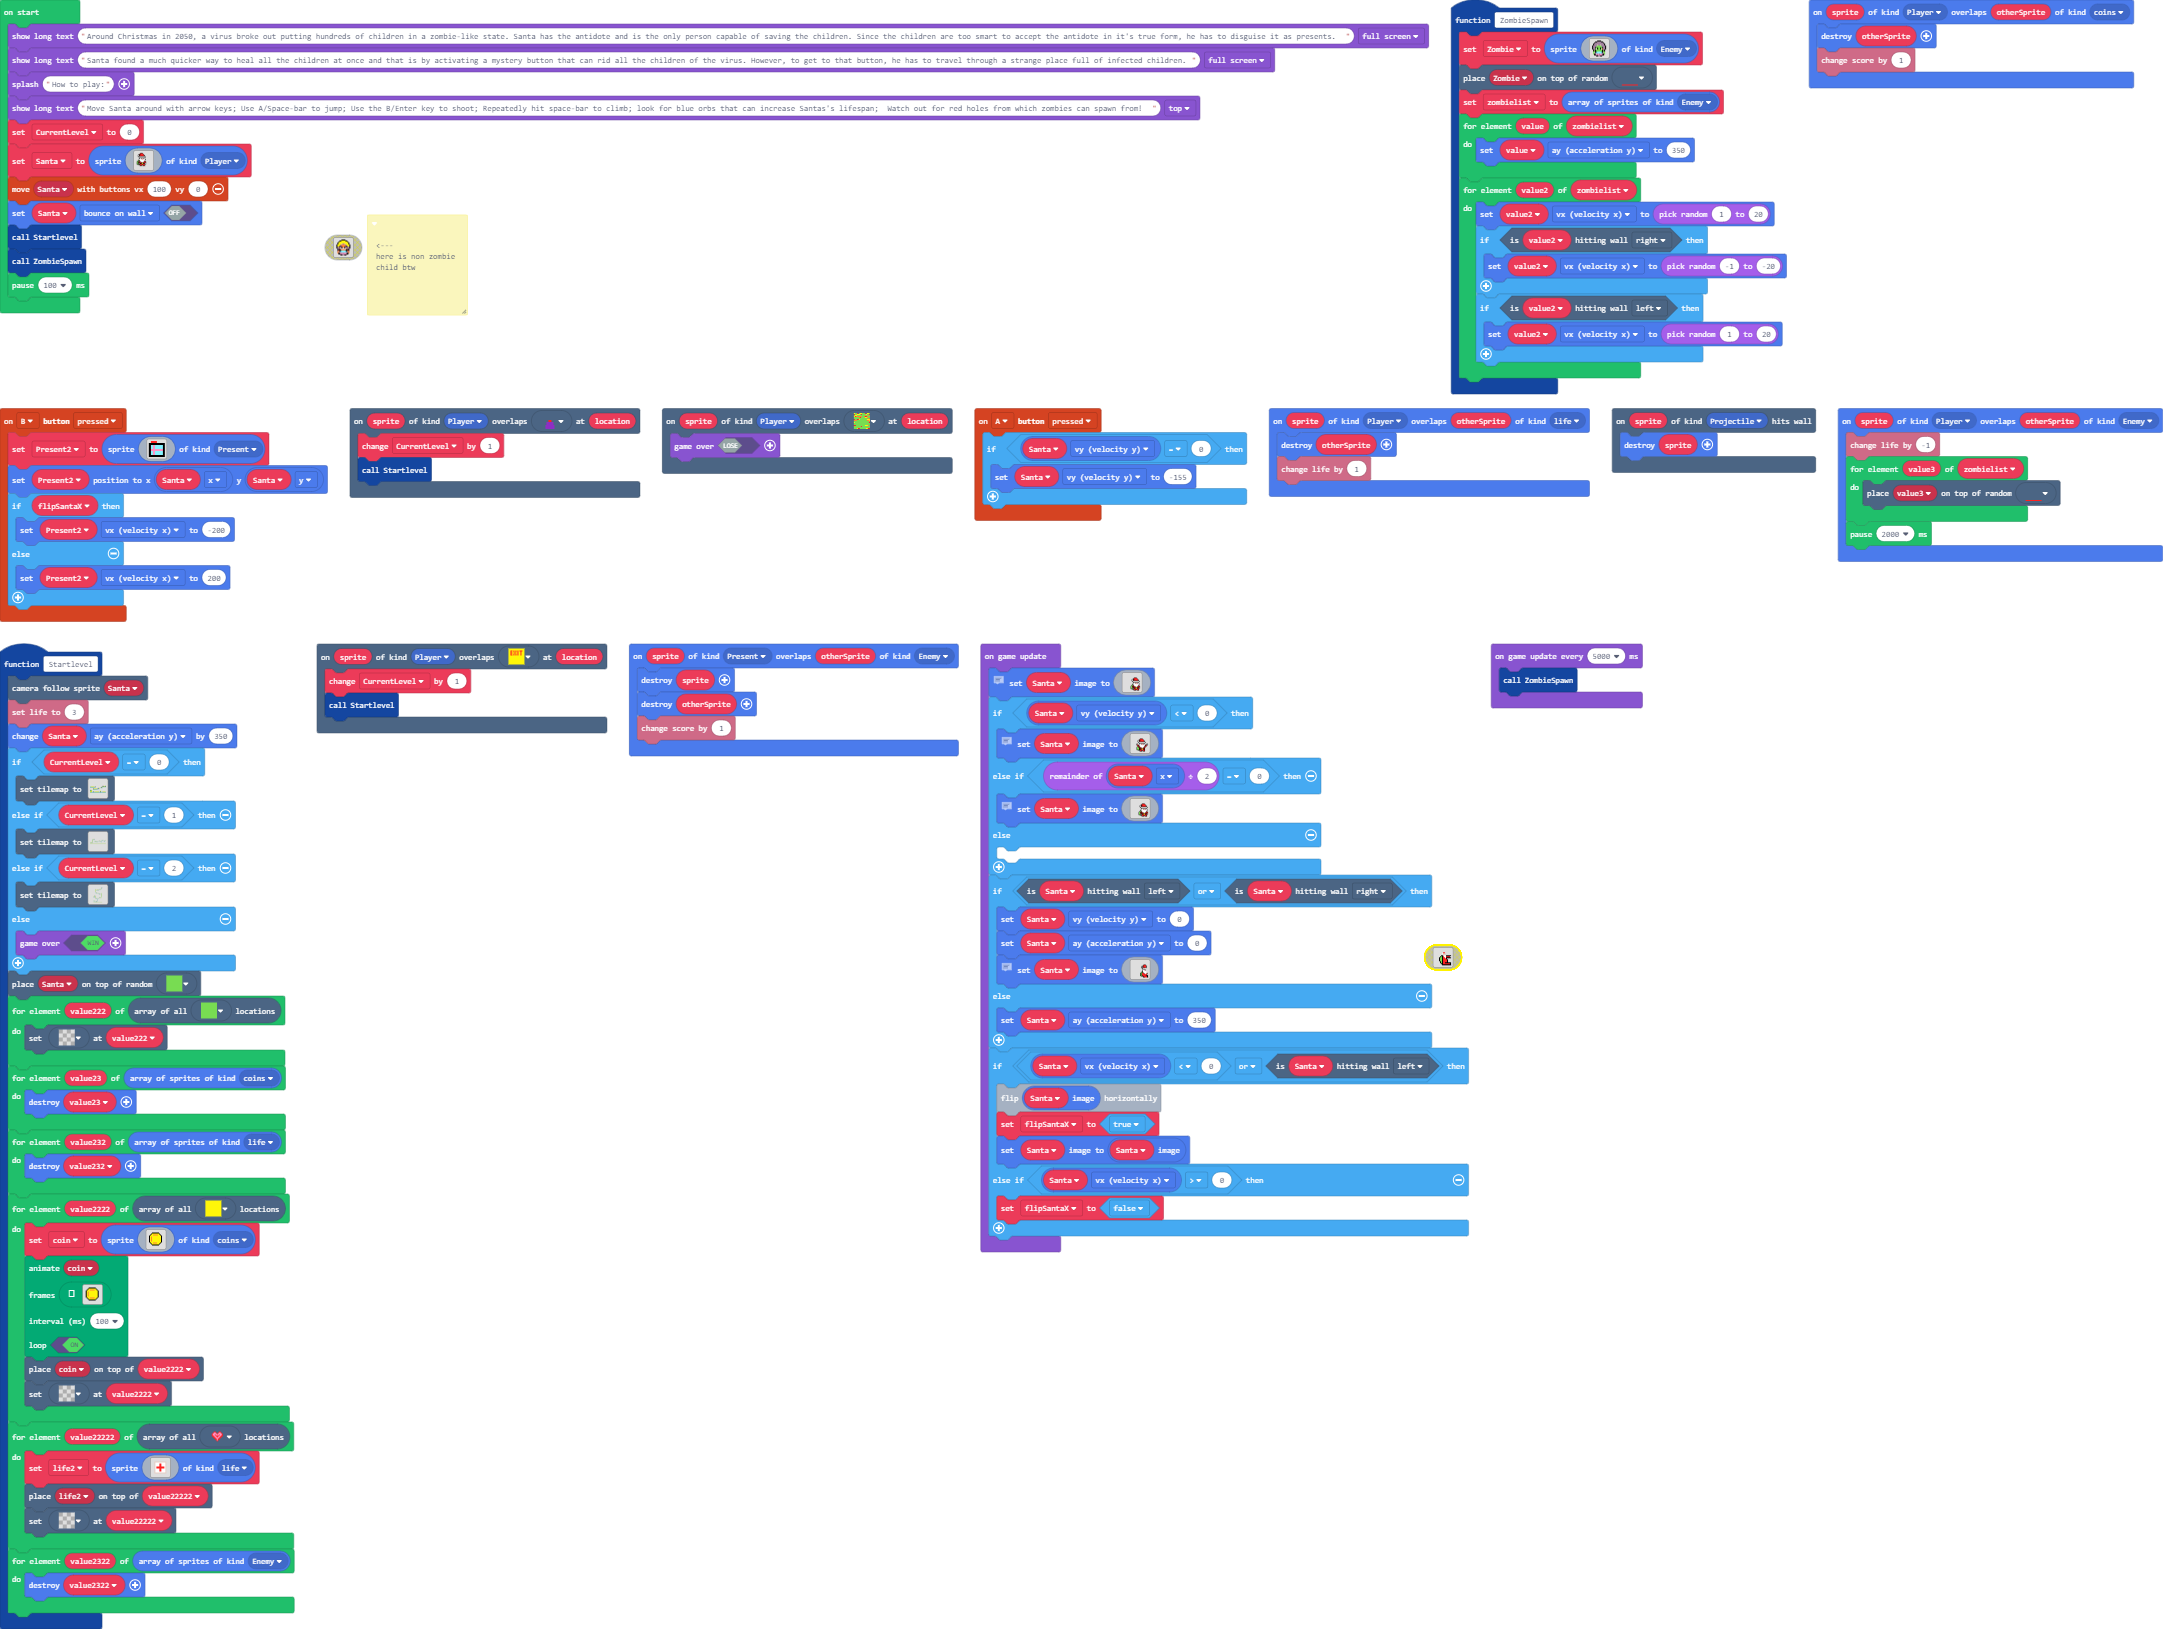
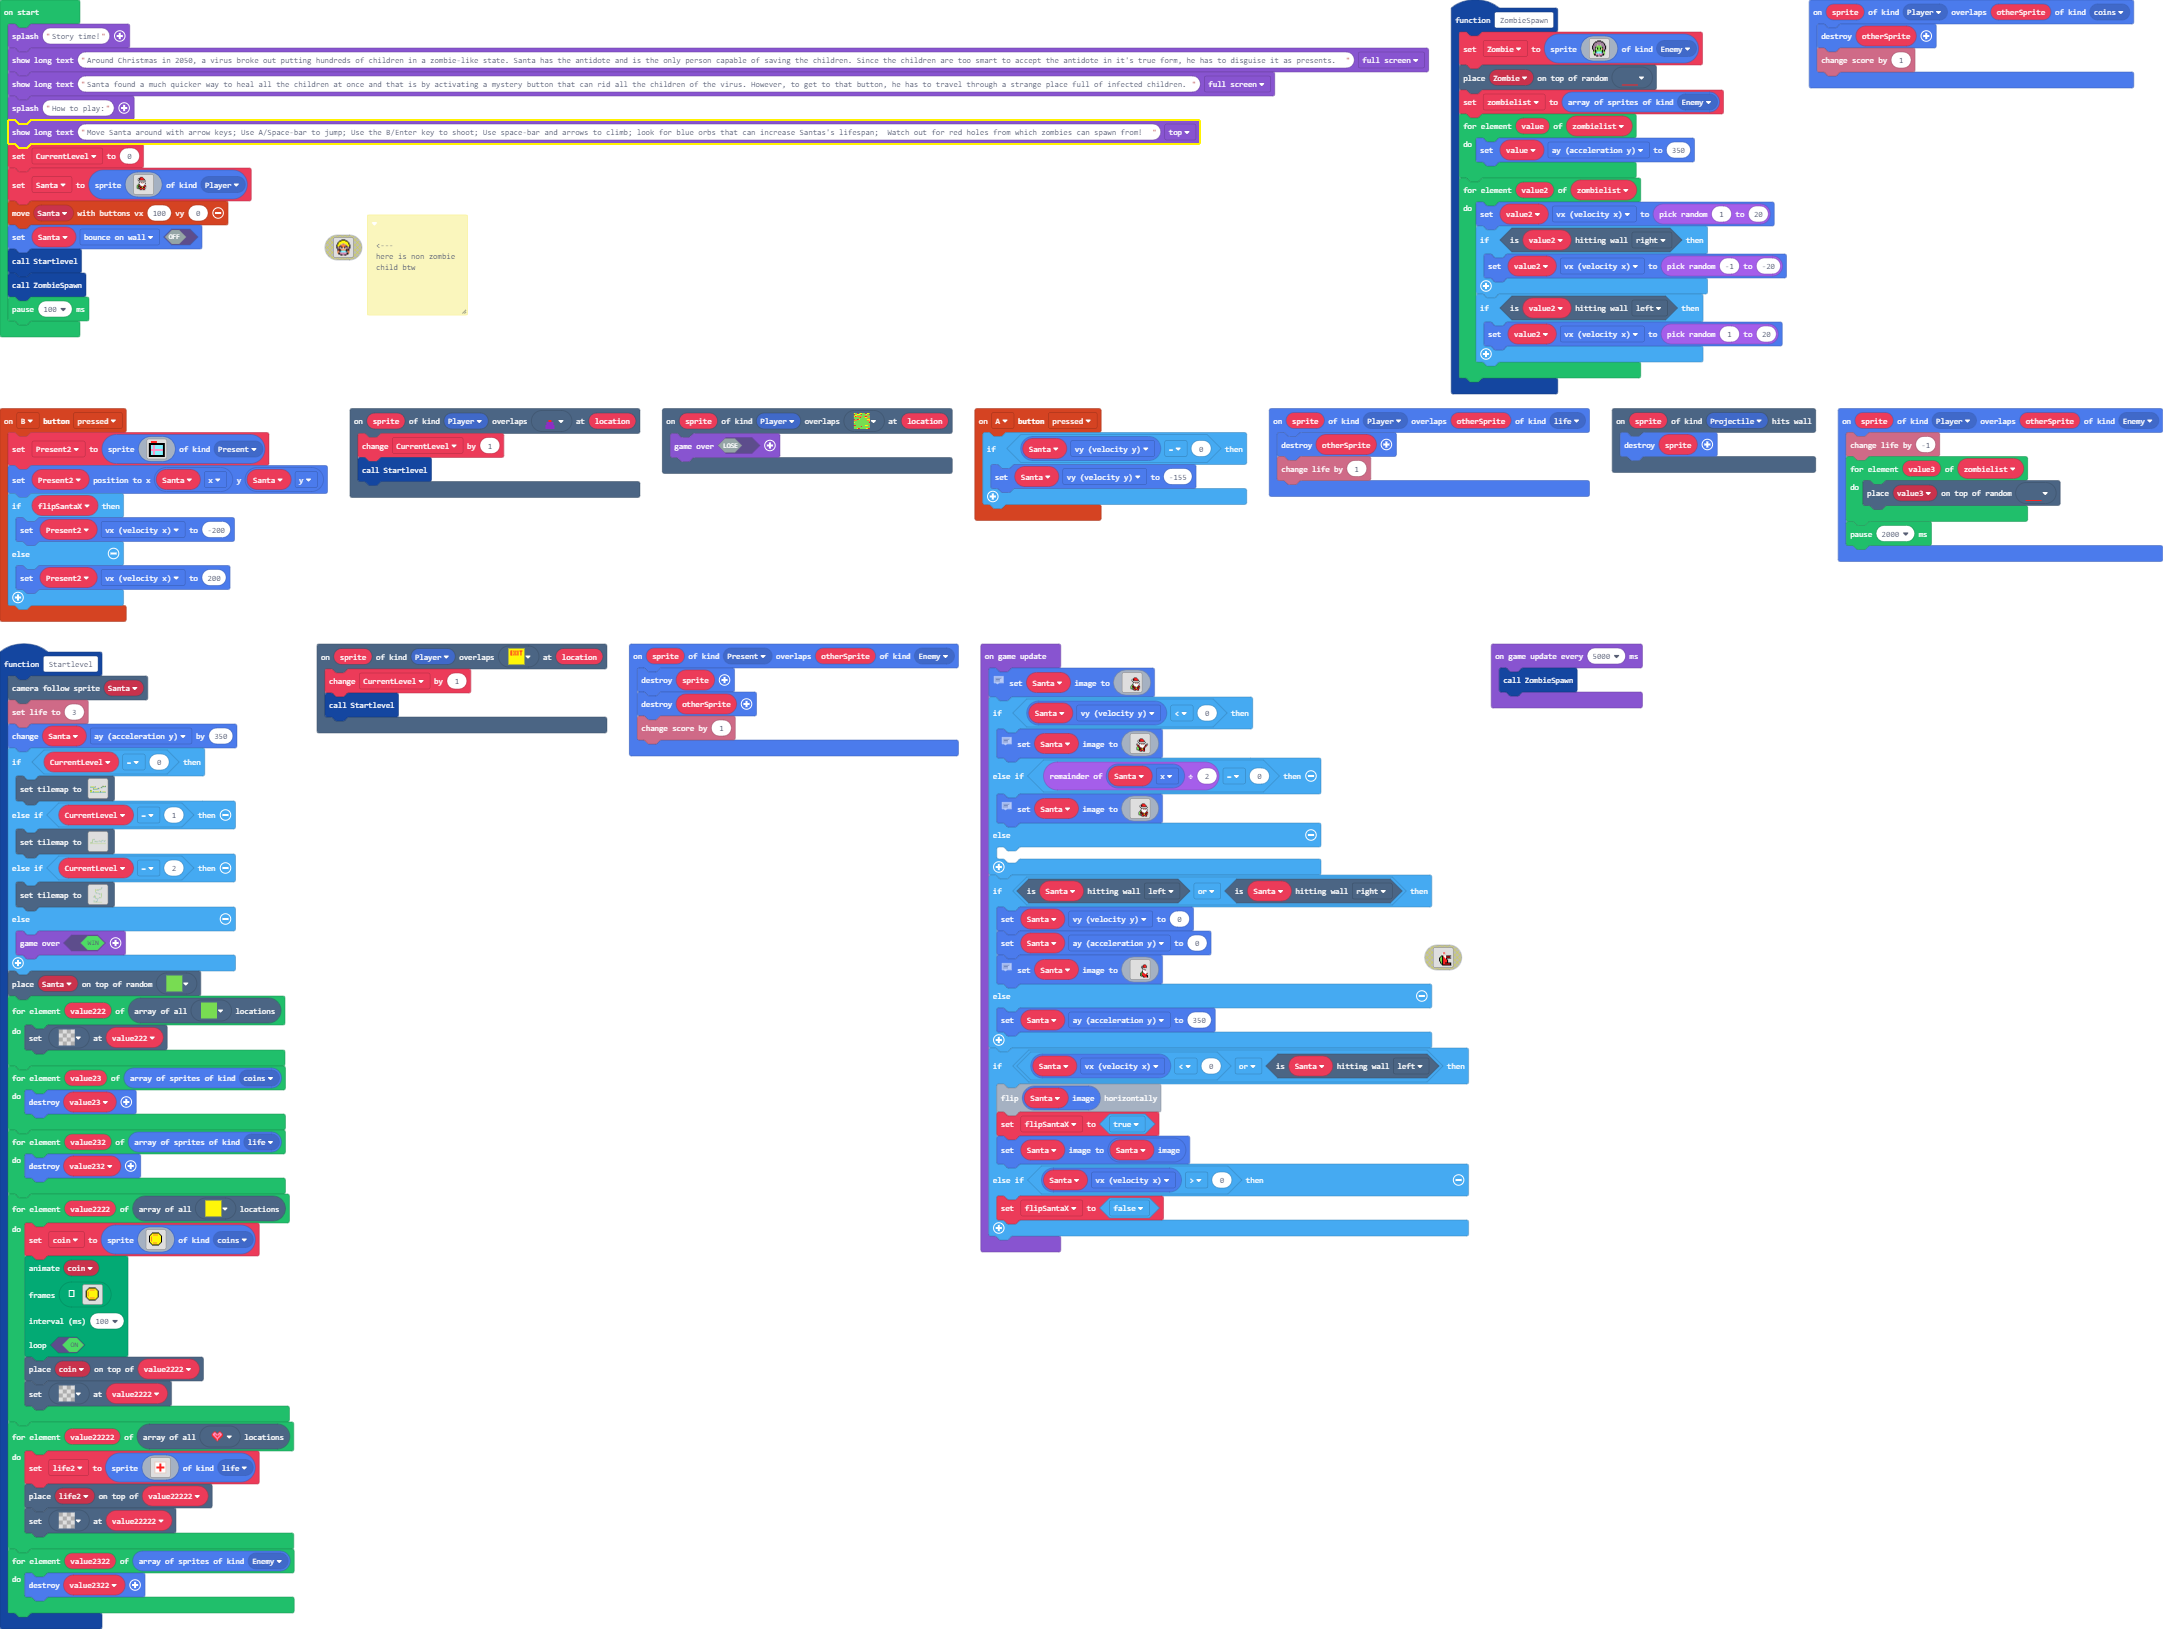
Update main.blocks, main.ts

Changed region(s): [[0.0, 0.0, 0.6815, 0.2149]]

diff --git a/main.ts b/main.ts
@@ -610,10 +610,11 @@ let zombielist: Sprite[] = []
 let Zombie: Sprite = null
 let Santa: Sprite = null
 let CurrentLevel = 0
+game.splash("Story time!")
 game.showLongText("Around Christmas in 2050, a virus broke out putting hundreds of children in a zombie-like state. Santa has the antidote and is the only person capable of saving the children. Since the children are too smart to accept the antidote in it's true form, he has to disguise it as presents.  ", DialogLayout.Full)
 game.showLongText("Santa found a much quicker way to heal all the children at once and that is by activating a mystery button that can rid all the children of the virus. However, to get to that button, he has to travel through a strange place full of infected children. ", DialogLayout.Full)
 game.splash("How to play:")
-game.showLongText("Move Santa around with arrow keys; Use A/Space-bar to jump; Use the B/Enter key to shoot; Repeatedly hit space-bar to climb; look for blue orbs that can increase Santas's lifespan;  Watch out for red holes from which zombies can spawn from!  ", DialogLayout.Top)
+game.showLongText("Move Santa around with arrow keys; Use A/Space-bar to jump; Use the B/Enter key to shoot; Use space-bar and arrows to climb; look for blue orbs that can increase Santas's lifespan;  Watch out for red holes from which zombies can spawn from!  ", DialogLayout.Top)
 CurrentLevel = 0
 Santa = sprites.create(img`
 . . . . . . . . . . . . . . . . . . . . . . . . . . . . . . . . 
